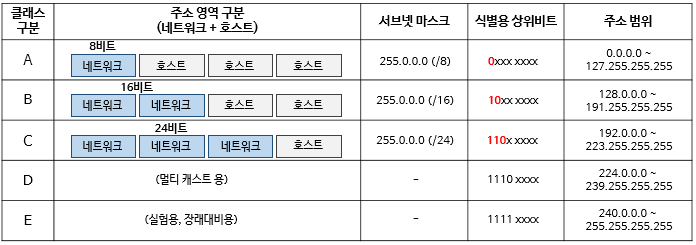
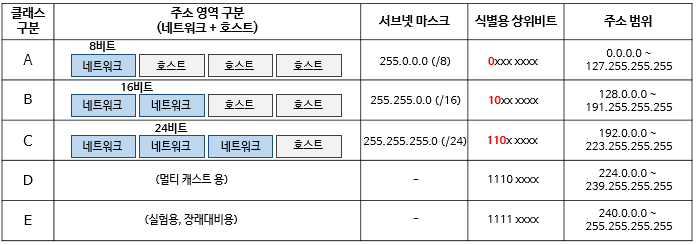
[240815] OSI 7 Layer - 3 Layer
- 서브넷 마스크, CIDR
- 프로토콜 조사 필요 (DHCP, ARP 등)#

Changed region(s): [[0.5129, 0.5429, 0.6638, 0.6], [0.5129, 0.3714, 0.6638, 0.4286]]

diff --git a/Notes/CS/01_OSI_7_Layer.md b/Notes/CS/01_OSI_7_Layer.md
@@ -836,8 +836,9 @@
     - 대규모의 네트워크에서는 브로드캐스트 패킷 등의 전송 시, 네트워크가 복잡하여 혼란이 생길 수 있음
       - 따라서 목적에 맞게 더 작은 단위로 분할하여 편리하게 사용하기 위헤 서브네팅
       - 만일 IP가 100개만 필요하다면, C 클래스(256개)를 더 쪼개서 사용할 수 있음
-      - 이러한 서브네팅은 서브넷 마스크 계산을 통하여 수행됨
-    - ✨✨✨ 하나의 서브넷 안에서는 라우터 없이, 동일한 LAN(이더넷/Wi-Fi) 안에서 물리적으로 연결되어 있음
+      - 이러한 ==**서브네팅은 서브넷 마스크 계산을 통하여 수행**==됨
+      - 클래스 기반의 IP 주소 할당 방식보다 더 효율적임
+    - 하나의 서브넷 안에서는 라우터 없이 동일한 LAN(이더넷/Wi-Fi) 안에서 물리적으로 연결되어 있어, 라우터의 중계 없이도 서로 물리적으로 도달할 수 있음
     
   - 필요성
     - 클래스 기반 IP 할당 방식은 비효율적이기에, 서브네팅을 통해 IP를 할당함
@@ -856,7 +857,7 @@
   
       - IP 주소와 동일한 32bit의 2진수로 표현됨
       - IP와 다른 점은 연속된 1과 0으로만 구성되어 있음
-      - 서브넷 마스크의 옥텟이 255면 네트워크 ID를 가리킴
+      - 서브넷 마스크의 옥텟이 255면 네트워크 ID를 가리키며, IP가 속한 클래스를 간단히 확인할 수 있음
       - ex. `255.255.255.0` → 네트워크 ID가 24bit
   
     - 클래스별 서브넷 마스크
@@ -867,23 +868,35 @@
       |   B   | `128.0.0.0` ~ `191.255.255.255` |   `255.255.0.0`    |
       |   C   | `192.0.0.0` ~ `223.255.255.255` |  `255.255.255.0`   |
   
-      
+    - ==**CIDR**==(Classless Inter Domain Routing)
   
-    - ✨✨✨✨✨ CIDR
-  
-      - 클래스 기반의 IP 주소 할당 방식보다 더 효율적
-      - IP 주소의 상위 몇 bit까지 서브넷으로 지정할 것인가를 나타냄
-      - ex. `192.168.1.0/24`는 상위 24bit까지 서브넷으로 
+      - 클래스 없는 도메인 간 라우팅 기법
+        - 도메인 간의 라우팅에 사용되는 IP 주소를 할당할 때, 클래스 체계를 사용하지 않고 더 능동적으로 할당하는 방식 중 하나
+        - CIDR 기법에는 **서브네팅**과 **슈퍼네팅**(여러 개의 서브넷을 하나의 네트워크로 통합하는 작업)이 속함
+      - CIDR 표기법
+        - 서브넷 마스크 주소의 상위 몇 bit까지 서브넷으로 지정할 것인가를 나타냄
+          - `/8`, `/16`, `/24`와 같이 표기
+          - ex. `192.168.1.0/24`
+            - 서브넷 마스크의 상위 24bit가 1의 값을 가짐
+            - → 서브넷 마스크 주소가 `255.255.255.0`임을 의미
 
 
 
 - IPv6 주소 체계
   - 128bit
-  - 
+    - 16bit 단위로 끊어 4자리의 16진수로 표현
+    - ex. `2001:0db8:85a3:08d3:1319:8a2e:0370:7334`
+    - 2^128^개의 IP 주소 할당 가능
+  - 장점
+    - IPv4의 주소 부족 문제 해결
+    - Header 형식이 개선됨에 따라, 우선순위 및 품질에 따른 순차적 할당 등의 QoS 지원
+    - 보안 기능을 기본적으로 제공
 
 
 
-- **DHCP**(Dynamic Host Configuration Protocol)
+#### 3.3.5.2. DHCP(Dynamic Host Configuration Protocol)
+
+- ✨✨✨✨✨✨✨ **DHCP**
   - DHCP를 통해 IP 주소를 자동으로 할당할 수 있음
   - 
 
@@ -936,6 +949,7 @@
     - [인터넷 프로토콜이란?](https://www.cloudflare.com/ko-kr/learning/network-layer/internet-protocol/)
     - [[제4장] 네트워크 계층: 데이터 평면](https://velog.io/@jnary/%EC%A0%9C4%EC%9E%A5-%EB%84%A4%ED%8A%B8%EC%9B%8C%ED%81%AC-%EA%B3%84%EC%B8%B5-%EB%8D%B0%EC%9D%B4%ED%84%B0-%ED%8F%89%EB%A9%B4)
     - [🌐 IP 클래스 · 서브넷 마스크 · 서브넷팅 계산법 💯 총정리](https://inpa.tistory.com/entry/WEB-IP-%ED%81%B4%EB%9E%98%EC%8A%A4-%EC%84%9C%EB%B8%8C%EB%84%B7-%EB%A7%88%EC%8A%A4%ED%81%AC-%EC%84%9C%EB%B8%8C%EB%84%B7%ED%8C%85-%EC%B4%9D%EC%A0%95%EB%A6%AC)
+    - [🌐 CIDR 개념 쉽게 이해해보자 & 계산법](https://inpa.tistory.com/entry/WEB-%F0%9F%8C%90-CIDR-%EC%9D%B4-%EB%AC%B4%EC%96%BC-%EB%A7%90%ED%95%98%EB%8A%94%EA%B1%B0%EC%95%BC-%E2%87%9B-%EA%B0%9C%EB%85%90-%EC%A0%95%EB%A6%AC-%EA%B3%84%EC%82%B0%EB%B2%95)
     - [OSI 3 계층 네트워크 계층 (Network Layer) 알아보기](https://jake-seo-dev.tistory.com/228)
     - 🎬 [IP 주소를 묶는 방법, CIDR란?](https://youtu.be/kYiQGpPVnyI)
   - [[OSI 모델 Layer 3] - 네트워크 계층](https://velog.io/@jinh2352/OSI-%EB%AA%A8%EB%8D%B8-Layer-3-%EB%84%A4%ED%8A%B8%EC%9B%8C%ED%81%AC-%EA%B3%84%EC%B8%B5)
